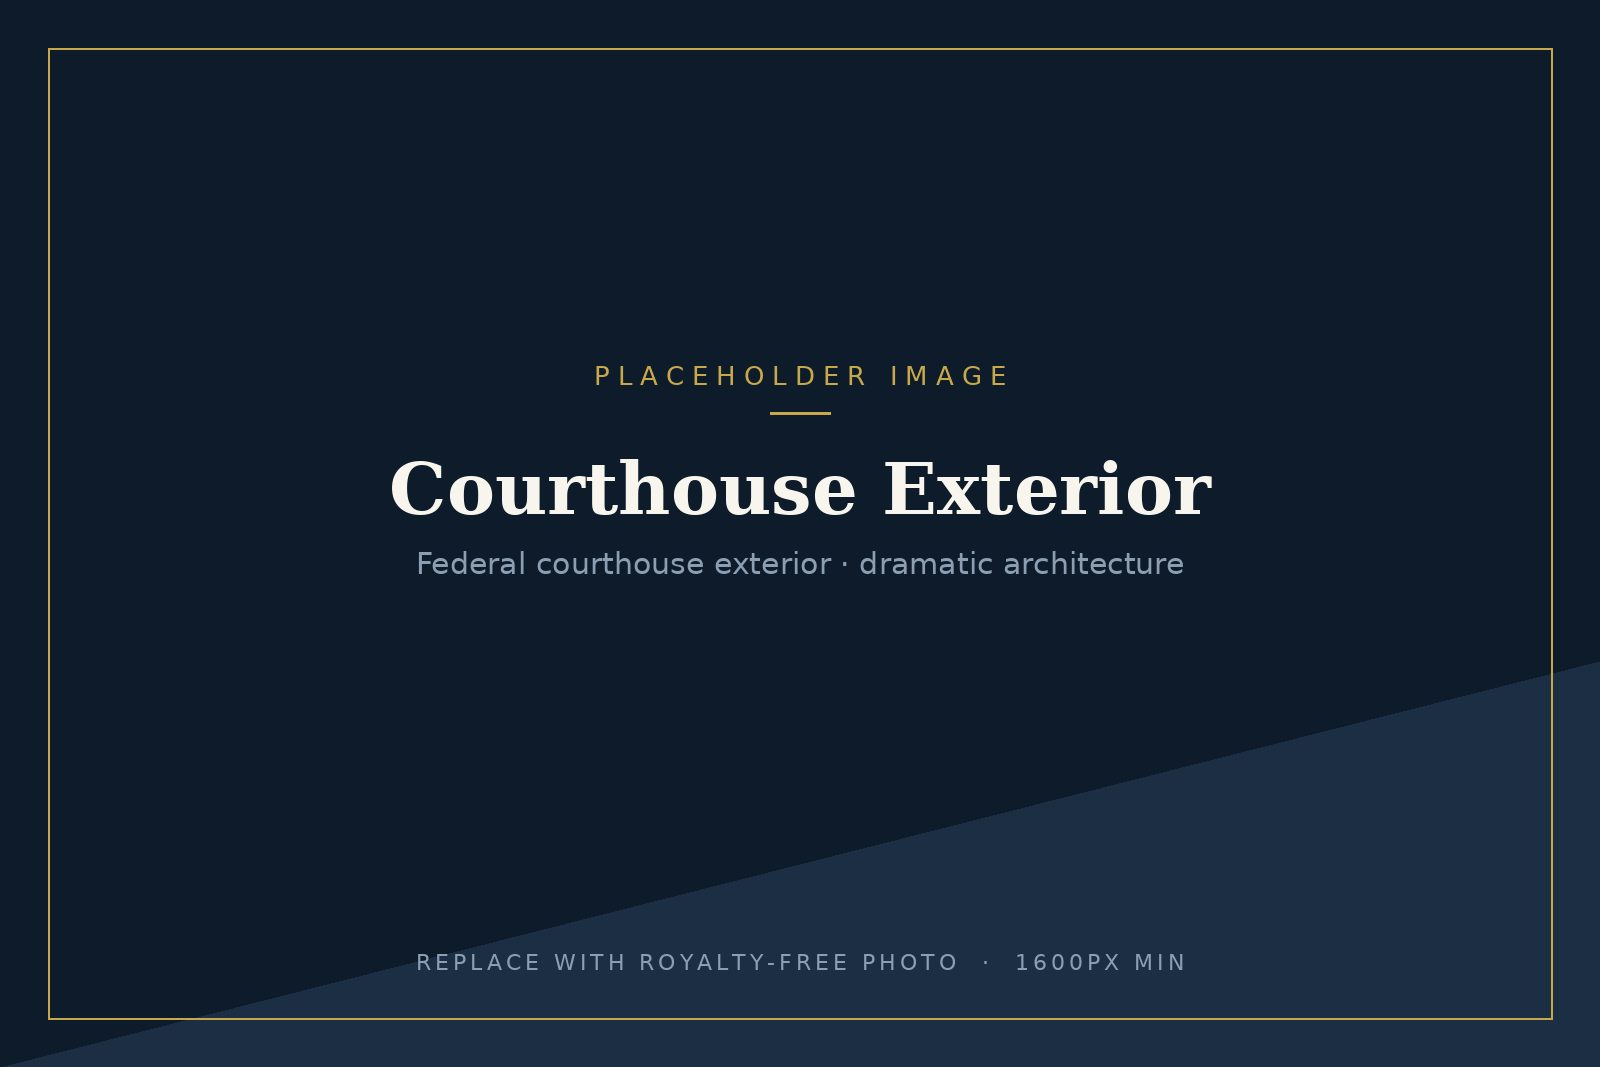
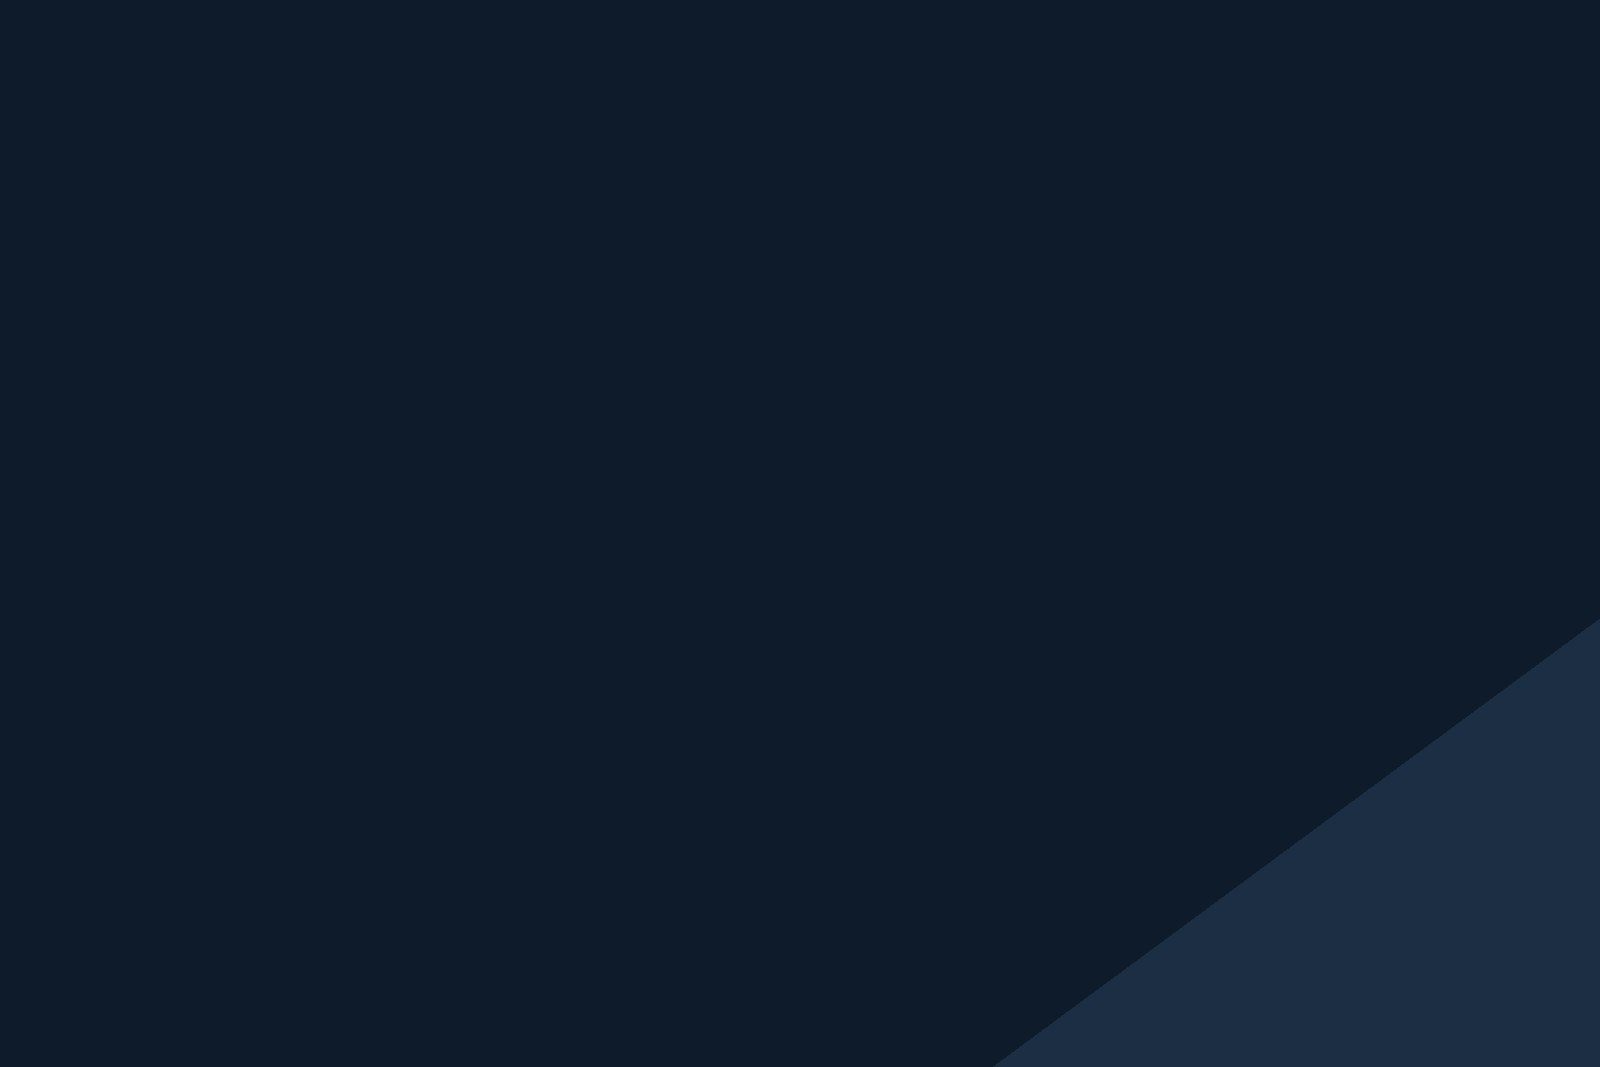
Fix hero placeholder image showing baked-in text through overlay
hero-courthouse.jpg was the same annotated-mockup placeholder used
elsewhere in the site (PLACEHOLDER IMAGE / Courthouse Exterior /
caption / REPLACE WITH ROYALTY-FREE PHOTO text rendered into the
pixels). That's invisible at full opacity in a bordered card, but at
the Hero's bg-navy/70 overlay it ghosts through behind the headline.

Regenerated the file as a plain navy field (no embedded text) so the
full-bleed background reads cleanly until real photography is swapped
in at the same path.

diff --git a/public/images/README.md b/public/images/README.md
@@ -18,6 +18,15 @@ Replace any file below **in place** (same path, same `.jpg` name). No code
 changes are required — the components already reference these paths. Use
 landscape, ≥1600px wide, royalty-free (Unsplash / Pexels) imagery.
 
+**Note on placeholder content:** most files below are annotated mockups with
+"PLACEHOLDER IMAGE" / subject / "REPLACE WITH ROYALTY-FREE PHOTO" text baked
+into the pixels — fine for a bordered card with full opacity, but the text
+shows through (ghosted) wherever a placeholder is used full-bleed behind a
+navy/70 overlay, as in a hero background. `home/hero-courthouse.jpg` was
+regenerated as a plain navy field with no embedded text for that reason. Any
+other placeholder moved into a full-bleed/overlay context should get the same
+treatment until real photography is swapped in.
+
 | Path | Intended subject |
 | --- | --- |
 | `home/hero-courthouse.jpg` | Federal courthouse exterior, dramatic architecture (homepage full-bleed hero background) |